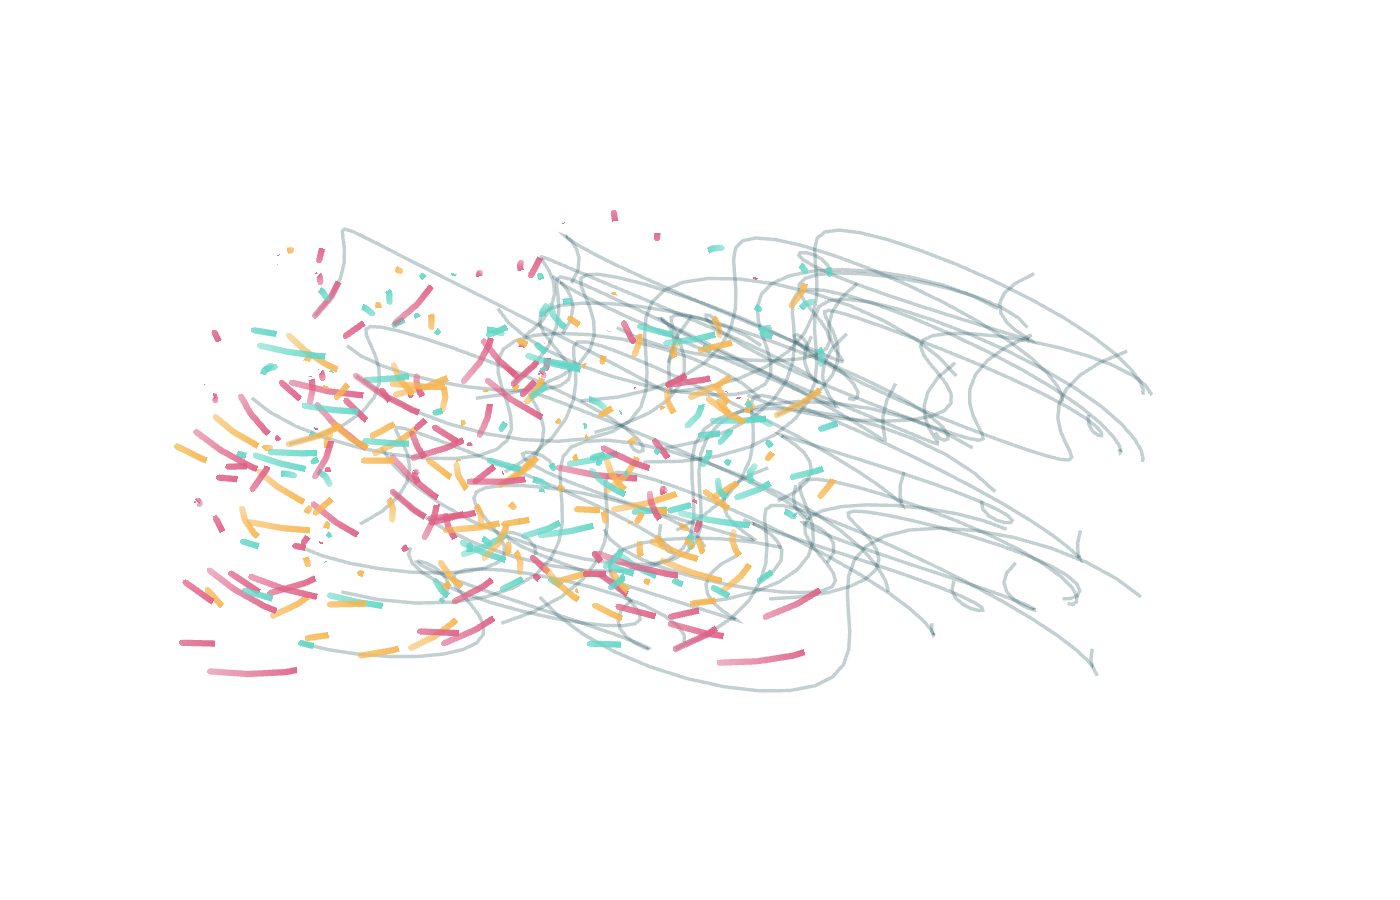
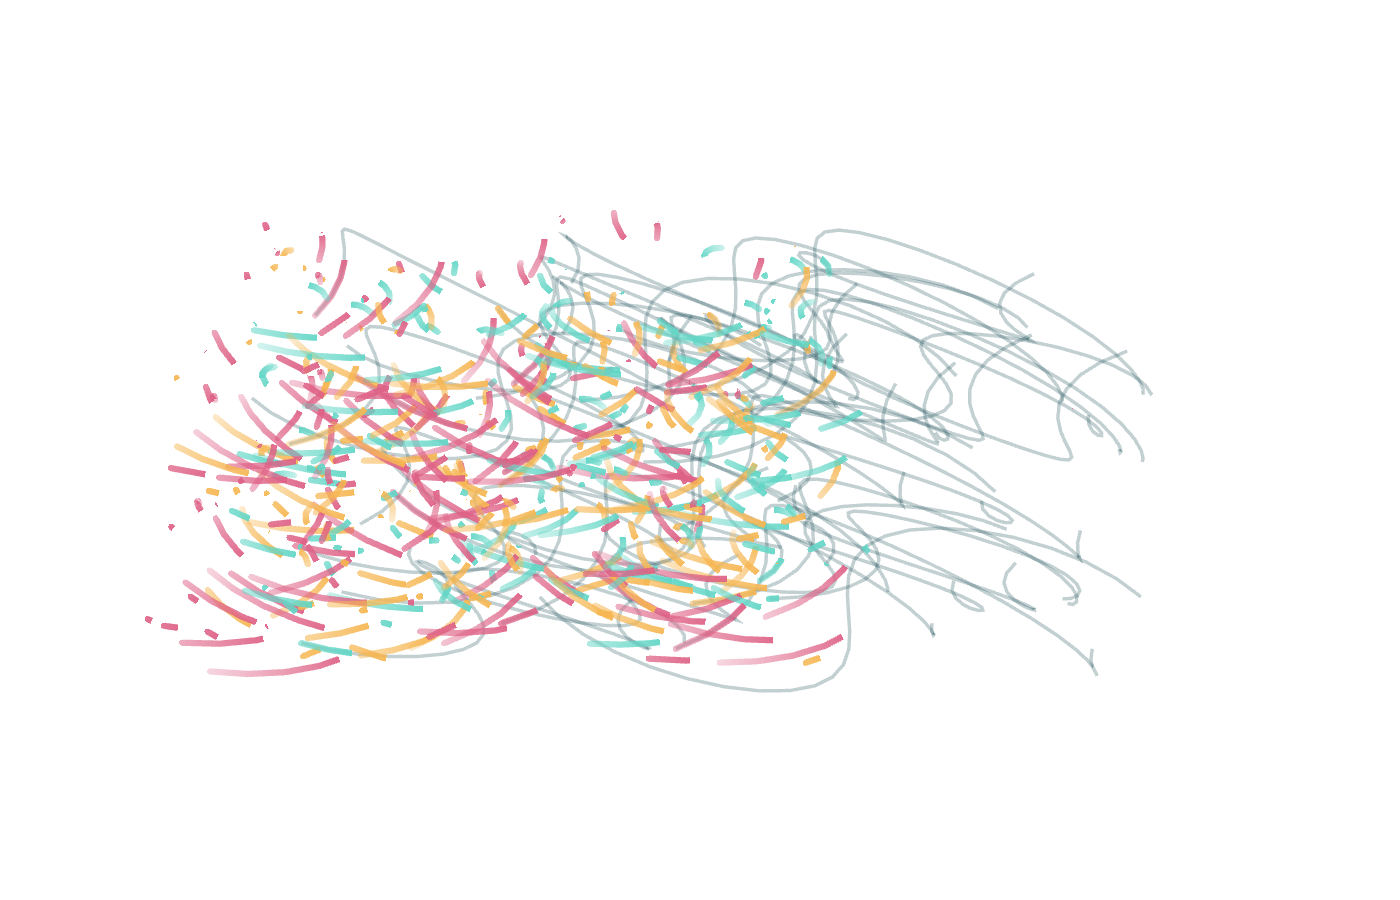
feat: expand transparent reference gallery

diff --git a/src/main.ts b/src/main.ts
@@ -1,10 +1,10 @@
 import {Deck, OrbitView, OrthographicView} from '@deck.gl/core';
-import {PathLayer, ScatterplotLayer} from '@deck.gl/layers';
-import {HexagonLayer} from '@deck.gl/aggregation-layers';
+import {ArcLayer, PathLayer, PolygonLayer, ScatterplotLayer, TextLayer} from '@deck.gl/layers';
+import {ContourLayer, GridLayer, HeatmapLayer, HexagonLayer} from '@deck.gl/aggregation-layers';
 import {TripsLayer} from '@deck.gl/geo-layers';
 import './style.css';
 
-type SceneName = 'hexagons' | 'trips' | 'flows';
+type SceneName = 'hexagons' | 'trips' | 'flows' | 'grid-cells' | 'heat-islands' | 'contour-pressure' | 'migration-arcs' | 'parcel-zoning' | 'constellation' | 'river-network' | 'sensor-field' | 'label-atlas';
 type Point = {position: [number, number]; weight: number};
 type Trip = {path: [number, number][]; timestamps: number[]; cohort: number};
 
@@ -23,7 +23,16 @@ const scenes: Record<SceneName, {title: string; subtitle: string; note: string}>
     title: 'Distributed connection arcs',
     subtitle: 'Directed flows use height, width, and color to encode route intensity.',
     note: 'Curved PathLayer routes and ScatterplotLayer nodes share a planar camera with no basemap dependency.'
-  }
+  },
+  'grid-cells': {title:'Regional capacity grid',subtitle:'A regular GPU aggregation exposes capacity and local variance.',note:'GridLayer encodes weight as both elevation and a sequential color ramp.'},
+  'heat-islands': {title:'Overlapping heat islands',subtitle:'Several dense sources merge into one continuous spatial field.',note:'HeatmapLayer blends 75,000 weighted samples without a basemap.'},
+  'contour-pressure': {title:'Pressure threshold atlas',subtitle:'Nested iso-bands turn point samples into readable scalar regions.',note:'ContourLayer extracts threshold bands and isolines on the GPU.'},
+  'migration-arcs': {title:'Migration corridor arcs',subtitle:'Origin-destination volume controls arc width, height, and color.',note:'ArcLayer compares long-range corridors while node glyphs preserve hubs.'},
+  'parcel-zoning': {title:'Synthetic parcel zoning',subtitle:'Land-use classes, block geometry, and intensity become an isometric district.',note:'PolygonLayer extrudes deterministic parcels by floor-area intensity.'},
+  constellation: {title:'Object constellation field',subtitle:'Twenty thousand objects preserve clusters, anomalies, and local density.',note:'ScatterplotLayer combines radius, color, outline, and picking.'},
+  'river-network': {title:'Branching river network',subtitle:'Stream order controls path width while tributaries preserve topology.',note:'PathLayer renders a deterministic branching hierarchy with rounded joints.'},
+  'sensor-field': {title:'Multivariate sensor field',subtitle:'Position, radius, fill, and outline distinguish health and magnitude.',note:'ScatterplotLayer composes four visual channels without a geographic tile source.'},
+  'label-atlas': {title:'Annotated feature atlas',subtitle:'Labels, leader relationships, and feature classes share one coordinate space.',note:'TextLayer and ScatterplotLayer form a dense but deterministic annotation field.'}
 };
 
 function pseudo(index: number, salt = 0): number {
@@ -218,7 +227,7 @@ if (scene === 'hexagons') {
     paused = !paused;
     (event.currentTarget as HTMLButtonElement).textContent = paused ? 'Resume animation' : 'Pause animation';
   });
-} else {
+} else if (scene === 'flows') {
   itemCount = flows.length;
   deck = new Deck({
     ...commonProps(), views: new OrthographicView({clearColor: [0, 0, 0, 0]}),
@@ -237,6 +246,22 @@ if (scene === 'hexagons') {
       })
     ]
   });
+} else {
+  const points=makePoints(scene==='heat-islands'?75_000:scene==='constellation'?20_000:18_000);
+  const parcels=Array.from({length:180},(_,i)=>{const x=(i%18-9)*5.4,y=(Math.floor(i/18)-5)*5.2,w=3.3+(i%4)*.35,h=3.1+(i%3)*.5;return {polygon:[[x-w,y-h],[x+w,y-h],[x+w,y+h],[x-w,y+h]],height:2+((i*17)%18),kind:i%5};});
+  const hubs=networkNodes.map((d,i)=>({...d,value:30+(i*37)%170}));
+  const branches=Array.from({length:90},(_,i)=>{const order=1+i%5,x=(i%9-4)*12,y=34-Math.floor(i/9)*7;return {order,path:Array.from({length:18},(_,k):[number,number]=>[x+(k-9)*2.4/order+Math.sin(k*.7+i)*2,y-k*2.5+Math.sin(k*.3+i)*4])};});
+  let layers:any[]=[];let view:any={target:[0,0,0],zoom:2.7,minZoom:1,maxZoom:7};itemCount=points.length;
+  if(scene==='grid-cells')layers=[new GridLayer<Point>({id:scene,data:points,getPosition:d=>d.position,getColorWeight:d=>d.weight,getElevationWeight:d=>d.weight,cellSize:3.2,extruded:true,elevationScale:.12,colorRange:[[18,48,83],[36,91,125],[62,151,154],[84,214,198],[255,209,102],[255,111,145]],opacity:.86})];
+  if(scene==='heat-islands')layers=[new HeatmapLayer<Point>({id:scene,data:points,getPosition:d=>d.position,getWeight:d=>d.weight,radiusPixels:48,intensity:1.6,threshold:.04,colorRange:[[14,29,52,0],[41,72,122,120],[84,214,198,190],[255,209,102,220],[255,111,145,245]]})];
+  if(scene==='contour-pressure')layers=[new ContourLayer<Point>({id:scene,data:points,getPosition:d=>d.position,getWeight:d=>d.weight,cellSize:5,contours:[{threshold:1,color:[84,214,198],strokeWidth:2},{threshold:3,color:[123,156,255],strokeWidth:3},{threshold:[5,9],color:[255,111,145,100]},{threshold:[9,14],color:[255,209,102,110]}]})];
+  if(scene==='migration-arcs'){itemCount=flows.length;layers=[new ArcLayer<any>({id:scene,data:flows,getSourcePosition:d=>d.source.position,getTargetPosition:d=>d.target.position,getSourceColor:d=>d.value>100?[255,111,145]:[84,214,198],getTargetColor:[255,209,102],getWidth:d=>1+d.value/45,widthMinPixels:1.5,greatCircle:false,opacity:.7}),new ScatterplotLayer({id:'hubs',data:hubs,getPosition:(d:any)=>d.position,getRadius:(d:any)=>1+d.value/45,radiusMinPixels:4,getFillColor:[235,247,255],getLineColor:[84,214,198],stroked:true,lineWidthMinPixels:2})];}
+  if(scene==='parcel-zoning'){itemCount=parcels.length;layers=[new PolygonLayer({id:scene,data:parcels,getPolygon:(d:any)=>d.polygon,getElevation:(d:any)=>d.height,extruded:true,getFillColor:(d:any)=>[[84,214,198],[123,156,255],[255,111,145],[255,209,102],[184,137,255]][d.kind] as [number,number,number],getLineColor:[220,242,250],lineWidthMinPixels:1,wireframe:true,opacity:.62})];view={target:[0,0,0],rotationX:38,rotationOrbit:28,zoom:3.1};}
+  if(scene==='constellation')layers=[new ScatterplotLayer<Point>({id:scene,data:points,getPosition:d=>d.position,getRadius:d=>.4+d.weight*.5,radiusMinPixels:1,radiusMaxPixels:9,getFillColor:d=>d.weight>2?[255,111,145]:d.weight>1.3?[255,209,102]:[84,214,198],opacity:.55,stroked:true,getLineColor:[220,244,250],lineWidthMinPixels:.4})];
+  if(scene==='river-network'){itemCount=branches.length;layers=[new PathLayer({id:scene,data:branches,getPath:(d:any)=>d.path,getWidth:(d:any)=>d.order*.9,widthMinPixels:1,getColor:(d:any)=>d.order>3?[84,214,198]:[72,120+d.order*20,190],rounded:true,jointRounded:true,opacity:.72})];}
+  if(scene==='sensor-field')layers=[new ScatterplotLayer<Point>({id:scene,data:points.slice(0,2500),getPosition:d=>d.position,getRadius:d=>.8+d.weight*1.2,radiusMinPixels:2,radiusMaxPixels:14,getFillColor:d=>d.weight>2.2?[255,111,145]:d.weight>1.2?[255,209,102]:[84,214,198],getLineColor:d=>d.weight>2.2?[255,230,235]:[180,220,235],stroked:true,lineWidthMinPixels:1.2,opacity:.7})];
+  if(scene==='label-atlas'){itemCount=hubs.length;layers=[new ScatterplotLayer({id:'features',data:hubs,getPosition:(d:any)=>d.position,getRadius:(d:any)=>2+d.value/90,radiusMinPixels:4,getFillColor:(d:any)=>d.value>100?[255,111,145]:[84,214,198]}),new TextLayer({id:'labels',data:hubs,getPosition:(d:any)=>d.position,getText:(d:any)=>d.name,getSize:16,getColor:[225,242,250],getPixelOffset:[0,-18],fontFamily:'Avenir Next',fontWeight:600,outlineWidth:3,outlineColor:[8,18,32,220]})];}
+  const orbit=scene==='parcel-zoning';deck=new Deck({...commonProps(),views:orbit?new OrbitView({orbitAxis:'Y',clearColor:[0,0,0,0]}):new OrthographicView({clearColor:[0,0,0,0]}),initialViewState:view,layers});
 }
 
 document.querySelector('#items')!.textContent = itemCount >= 1000 ? `${(itemCount / 1000).toFixed(itemCount >= 10000 ? 0 : 1)}k` : String(itemCount);

diff --git a/README.md b/README.md
@@ -1,6 +1,6 @@
 # deckgl-examples
 
-Three self-contained deck.gl scenes that demonstrate GPU aggregation, animated trajectories, and geographic flow arcs without a basemap or runtime network dependency.
+Twelve self-contained deck.gl reference scenes spanning GPU aggregation, animated trajectories, geographic flows, contours, parcels, labels, and point fields without a basemap or runtime network dependency.
 
 ```bash
 npm install
@@ -12,8 +12,14 @@ npm test
 
 The datasets are deterministic synthetic fixtures intended to expose rendering techniques, not observations from real cities.
 
-## Transparent PNG gallery
+## Transparent PNG reference gallery
 
-| GPU hexagons | Animated trips | Curved flows |
-|---|---|---|
-| ![GPU-aggregated hexagons](out/hexagons-transparent.png) | ![Temporal trip trails](out/trips-transparent.png) | ![Distributed flow network](out/flows-transparent.png) |
+`catalog.json` records the use case, question, visual family, complexity, and tags for every scene.
+
+| Hexagons | Trips | Flows | Grid cells |
+|---|---|---|---|
+| ![hexagons](out/hexagons-transparent.png) | ![trips](out/trips-transparent.png) | ![flows](out/flows-transparent.png) | ![grid cells](out/grid-cells-transparent.png) |
+| Heat islands | Pressure contours | Migration arcs | Parcel zoning |
+| ![heat islands](out/heat-islands-transparent.png) | ![pressure contours](out/contour-pressure-transparent.png) | ![migration arcs](out/migration-arcs-transparent.png) | ![parcel zoning](out/parcel-zoning-transparent.png) |
+| Constellation | River network | Sensor field | Label atlas |
+| ![constellation](out/constellation-transparent.png) | ![river network](out/river-network-transparent.png) | ![sensor field](out/sensor-field-transparent.png) | ![label atlas](out/label-atlas-transparent.png) |
